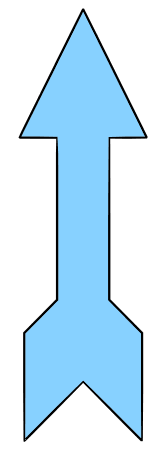
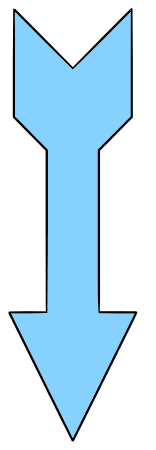
arrow possible fix, and welcome page color change

Changed region(s): [[0.0513, 0.0, 0.9487, 0.9956]]

diff --git a/App.js b/App.js
@@ -390,7 +390,7 @@ const styles = StyleSheet.create({
 
   },
   welcomeB: {
-    backgroundColor: 'rgba(223, 108, 22, .9)',
+    backgroundColor: "rgba(223, 108, 22, 1)",
     paddingHorizontal: 18,
     paddingVertical: 10,
     borderRadius: 20,
@@ -423,7 +423,7 @@ const styles = StyleSheet.create({
     left: Dimensions.get('window').width-100,
   },
   aboutContainer: {
-    backgroundColor: 'rgba(223, 108, 22, 1)'
+    backgroundColor: 'rgba(223, 108, 22, 1)', 
   },
   buttonContainer: {
     flexDirection: 'row',
